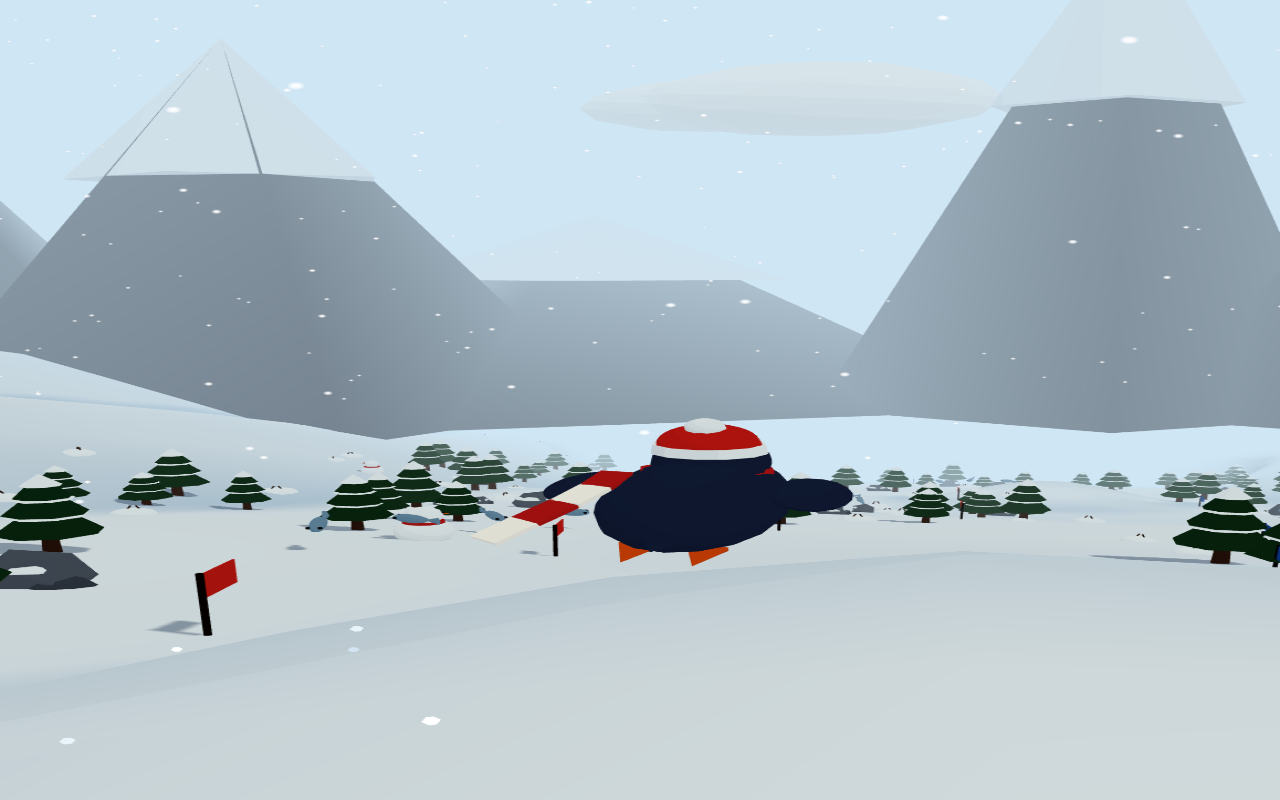
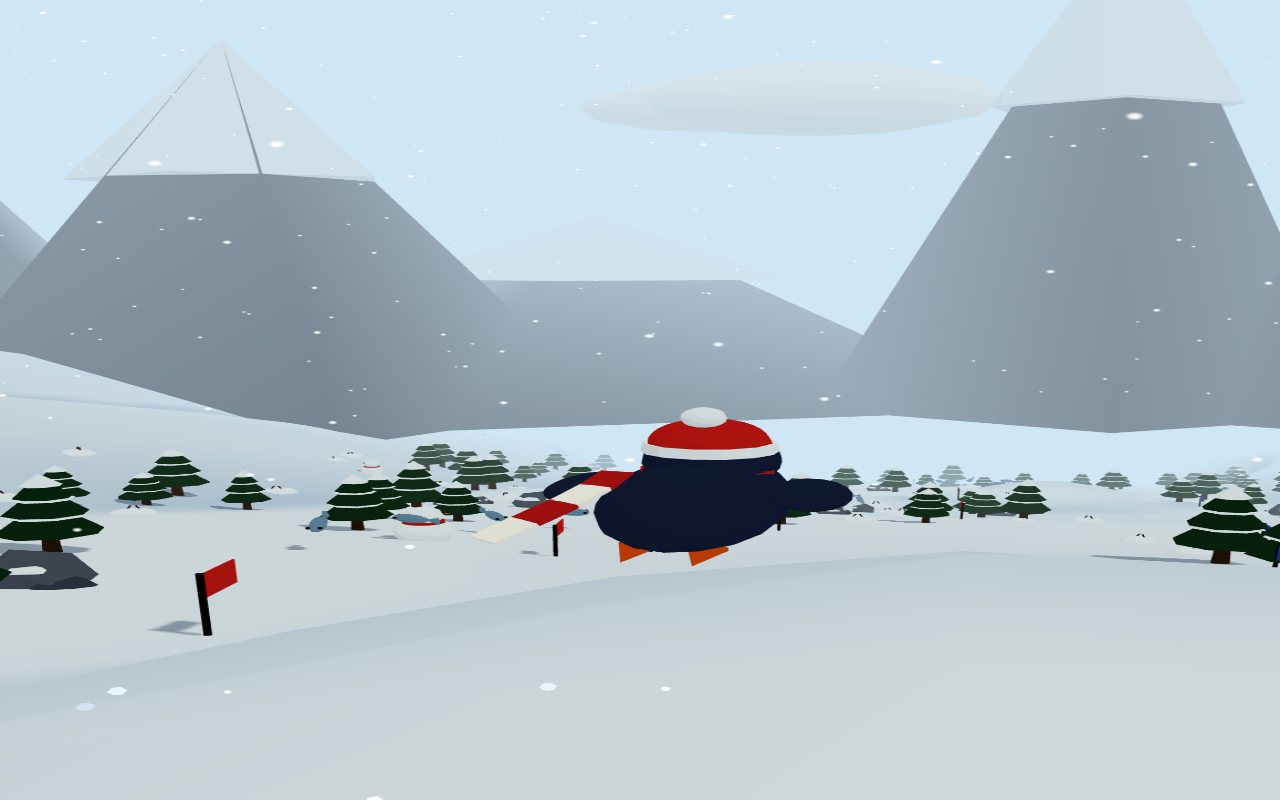
Penguin: a cuter face
The baby schema, applied four times over. A bigger head, because a large
head on a small body is the first thing anyone reads as young. Eyes twice
the size and set low on the face — low is the important half, since eyes
high on a head read as an adult and eyes low on one read as a baby. A short
blunt beak tipped at the floor instead of a long level one, which is the
difference between a seabird going about its business and something a child
wants to keep. And fuller cheeks, under the eyes and out to the side where a
full cheek actually sits.

Two catchlights in each eye rather than one. One is a shine; two is the
oldest trick in cartoon drawing and what makes an eye look wet rather than
painted on.

The hat grew with the head, and the bobble came out of the inside of it —
the crown reaches 3.14 and the pom-pom was sitting at 3.02, which is to say
nowhere anybody could see it. New gallery card, since the hat is the half of
the bird you spend the run looking at.

Changed region(s): [[0.5, 0.5, 0.625, 0.5938], [0.875, 0.125, 0.9062, 0.1562], [0.3125, 0.875, 0.3438, 0.9062]]

diff --git a/penguin/src/entities/penguin.ts b/penguin/src/entities/penguin.ts
@@ -401,36 +401,62 @@ export class Penguin {
     belly.translate(0, -0.34, 0.24);
     parts.push(paint(belly, PALETTE.belly));
 
-    // The head, up and forward, and the white of the face under the beak.
-    const head = new THREE.SphereGeometry(1.16, 16, 12);
-    head.scale(1, 0.95, 1);
-    head.translate(0, 1.16, 1.5);
+    // The head.
+    //
+    // Bigger than a real penguin's, on purpose, and that is most of the
+    // cuteness right there: a large head on a small body is the first thing
+    // anyone reads as young, and everything else on this face is the same
+    // trick applied smaller.
+    const head = new THREE.SphereGeometry(1.34, 16, 12);
+    head.scale(1, 0.94, 1);
+    head.translate(0, 1.22, 1.56);
     parts.push(paint(head, PALETTE.back));
 
-    const face = new THREE.SphereGeometry(0.95, 14, 10);
-    face.scale(0.8, 0.85, 0.62);
-    face.translate(0, 0.94, 2.24);
+    // The white of the face, wide enough that the eyes sit on it rather than
+    // beside it. A dark eye on a dark head is a hole; a dark eye on white is
+    // an eye.
+    const face = new THREE.SphereGeometry(1.12, 14, 10);
+    face.scale(0.84, 0.9, 0.62);
+    face.translate(0, 1.02, 2.3);
     parts.push(paint(face, PALETTE.belly));
 
-    const beak = new THREE.ConeGeometry(0.4, 1.05, 8);
-    beak.rotateX(Math.PI / 2);
-    beak.translate(0, 1.02, 3);
+    // A short, stubby beak, low and tipped down.
+    //
+    // It was longer and level, and a long level beak reads as a bird going
+    // about its business. Short, blunt and pointing slightly at the floor is
+    // the difference between a seabird and something a child wants to keep.
+    const beak = new THREE.ConeGeometry(0.4, 0.86, 8);
+    beak.rotateX(Math.PI / 2 + 0.22);
+    beak.translate(0, 0.8, 2.98);
     parts.push(paint(beak, PALETTE.beak));
 
     for (const side of [-1, 1]) {
-      const eye = new THREE.SphereGeometry(0.22, 10, 8);
-      eye.translate(side * 0.44, 1.44, 2.38);
+      // Big, and set low.
+      //
+      // Low is the important half. Eyes high on a head read as an adult and
+      // eyes low on it read as a baby, and it is worth more than the size —
+      // which is also doubled from what it was, because a small eye at this
+      // distance is a full stop.
+      const eye = new THREE.SphereGeometry(0.34, 12, 10);
+      eye.translate(side * 0.46, 1.24, 2.72);
       parts.push(paint(eye, 0x161d26));
-      // The glint. Two of the four things that make a face read as friendly
-      // rather than as a face; the other two are the cheeks and how round the
-      // head is.
-      const glint = new THREE.SphereGeometry(0.08, 8, 6);
-      glint.translate(side * 0.5, 1.53, 2.53);
+
+      // Two catchlights each, a big one up and out and a small one down and
+      // in. One is a shine; two is the oldest trick in cartoon drawing and the
+      // thing that makes an eye look wet and alive rather than painted on.
+      const glint = new THREE.SphereGeometry(0.13, 8, 6);
+      glint.translate(side * 0.58, 1.4, 2.97);
       parts.push(paint(glint, 0xffffff));
 
-      const cheek = new THREE.SphereGeometry(0.26, 10, 8);
-      cheek.scale(1, 0.8, 0.4);
-      cheek.translate(side * 0.72, 1.02, 2.24);
+      const spark = new THREE.SphereGeometry(0.06, 6, 5);
+      spark.translate(side * 0.32, 1.08, 2.99);
+      parts.push(paint(spark, 0xffffff));
+
+      // Cheeks, under the eyes and out to the side, where a full cheek
+      // actually sits.
+      const cheek = new THREE.SphereGeometry(0.36, 10, 8);
+      cheek.scale(1, 0.72, 0.34);
+      cheek.translate(side * 0.82, 0.88, 2.42);
       parts.push(paint(cheek, PALETTE.cheek));
 
       // The feet trail out behind. A penguin on its belly does not run; it
@@ -450,19 +476,21 @@ export class Penguin {
     // white bobble on it is visible from any angle at any distance, and it is
     // the cheapest possible fix for the one thing a child has to be able to
     // see at all times.
-    const brim = new THREE.CylinderGeometry(1.08, 1.12, 0.4, 12);
+    const brim = new THREE.CylinderGeometry(1.26, 1.3, 0.42, 14);
     brim.rotateX(0.18);
-    brim.translate(0, 1.86, 1.44);
+    brim.translate(0, 1.9, 1.5);
     parts.push(paint(brim, PALETTE.snow));
 
-    const hat = new THREE.SphereGeometry(1.02, 12, 8, 0, TAU, 0, Math.PI / 2);
+    const hat = new THREE.SphereGeometry(1.2, 12, 8, 0, TAU, 0, Math.PI / 2);
     hat.scale(1, 0.95, 1);
     hat.rotateX(0.18);
-    hat.translate(0, 1.96, 1.42);
+    hat.translate(0, 2, 1.48);
     parts.push(paint(hat, PALETTE.hat));
 
-    const bobble = new THREE.SphereGeometry(0.4, 10, 8);
-    bobble.translate(0, 2.9, 1.28);
+    // Clear of the top of the dome. At 3.02 it was inside it: the hat's own
+    // crown reaches 3.14, so the bobble was a pom-pom nobody could see.
+    const bobble = new THREE.SphereGeometry(0.44, 10, 8);
+    bobble.translate(0, 3.38, 1.24);
     parts.push(paint(bobble, PALETTE.snow));
 
     const tail = new THREE.ConeGeometry(0.7, 1.3, 6);
